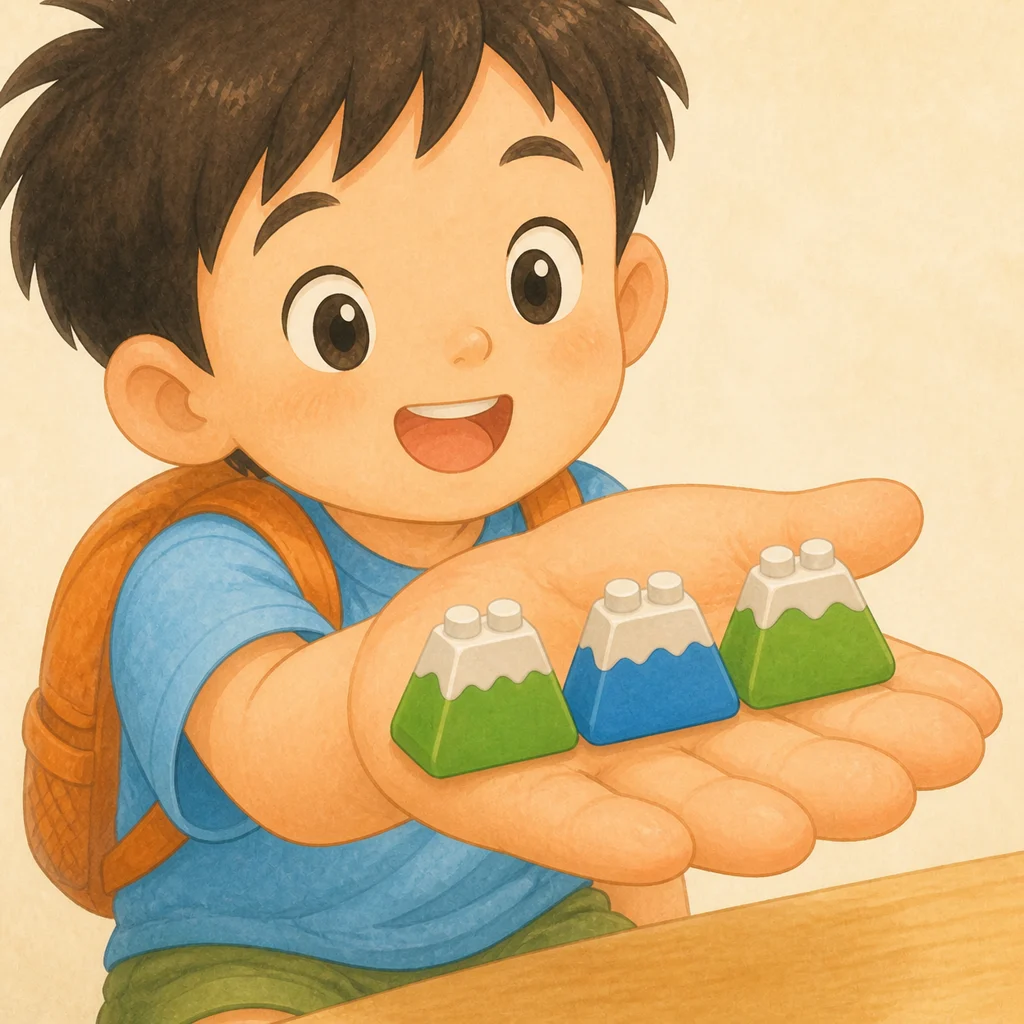
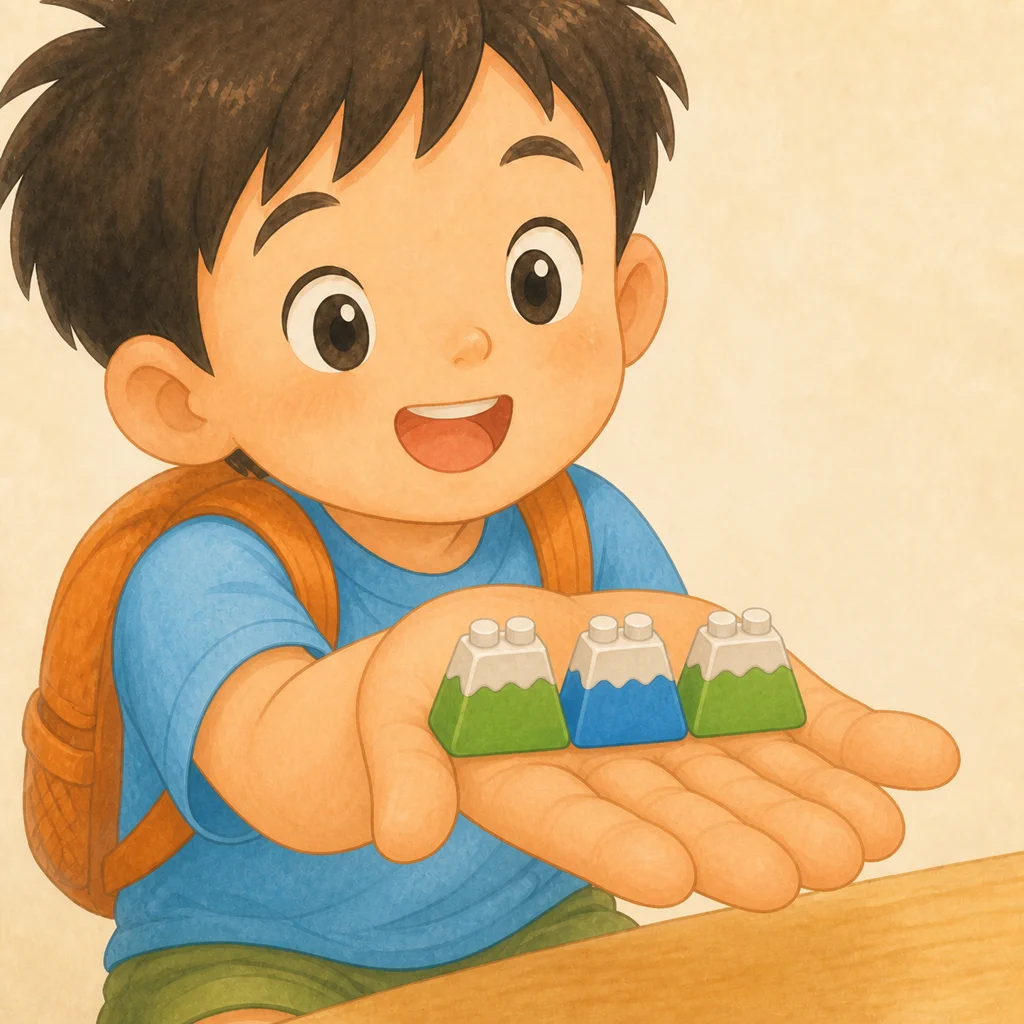
Persist planner drafts and fix L012 hand image

diff --git a/public/tools/lesson-planner.html b/public/tools/lesson-planner.html
@@ -458,6 +458,7 @@
           <button class="btn danger" id="submitBtn" type="button">送出給 Codex</button>
           <button class="btn" id="copyBtn" type="button">複製 JSON</button>
           <button class="btn secondary" id="downloadBtn" type="button">下載 JSON</button>
+          <button class="btn secondary" id="clearDraftBtn" type="button">清除本課草稿</button>
         </div>
         <div class="status" id="statusLine"></div>
       </section>
@@ -468,6 +469,7 @@
         data: null,
         recommendations: [],
         selectedChoiceId: "",
+        storageKey: "",
         selectedIndexes: new Map(),
         imageNotesBySentence: new Map(),
         customRowsByChoice: new Map(),
@@ -755,6 +757,109 @@
         });
       }
 
+      function plannerStorageKey(model) {
+        return `character-recognition-dojo:lesson-planner:v1:${model.lessonId}`;
+      }
+
+      function mapToObject(map, valueMapper = (value) => value) {
+        return Object.fromEntries([...map.entries()].map(([key, value]) => [key, valueMapper(value)]));
+      }
+
+      function restoreMapOfArrays(saved, allowedChoiceIds) {
+        return new Map(
+          Object.entries(saved || {})
+            .filter(([choiceId]) => allowedChoiceIds.has(choiceId))
+            .map(([choiceId, indexes]) => [choiceId, new Set((indexes || []).map(Number).filter(Number.isInteger))]),
+        );
+      }
+
+      function restoreMapOfStrings(saved) {
+        return new Map(Object.entries(saved || {}).map(([key, value]) => [key, String(value || "")]));
+      }
+
+      function cleanSavedRows(rows) {
+        return (rows || [])
+          .filter((row) => row && String(row.text || "").trim())
+          .map((row) => ({
+            text: String(row.text || ""),
+            spokenText: String(row.spokenText || ""),
+            focusChar: String(row.focusChar || ""),
+            imageNotes: String(row.imageNotes || ""),
+            editing: Boolean(row.editing),
+          }));
+      }
+
+      function restoreMapOfRows(saved, allowedChoiceIds) {
+        return new Map(
+          Object.entries(saved || {})
+            .filter(([choiceId]) => allowedChoiceIds.has(choiceId))
+            .map(([choiceId, rows]) => [choiceId, cleanSavedRows(rows)]),
+        );
+      }
+
+      function restoreMapOfDrafts(saved, allowedChoiceIds) {
+        return new Map(
+          Object.entries(saved || {})
+            .filter(([choiceId]) => allowedChoiceIds.has(choiceId))
+            .map(([choiceId, draft]) => [
+              choiceId,
+              {
+                text: String(draft?.text || ""),
+                spokenText: String(draft?.spokenText || ""),
+                focusChar: String(draft?.focusChar || ""),
+                imageNotes: String(draft?.imageNotes || ""),
+              },
+            ]),
+        );
+      }
+
+      function loadPlannerMemory(model) {
+        state.storageKey = plannerStorageKey(model);
+        const allowedChoiceIds = new Set(model.recommendations.map((choice) => choice.choiceId));
+        try {
+          const saved = JSON.parse(localStorage.getItem(state.storageKey) || "null");
+          if (!saved) return false;
+          state.selectedChoiceId = allowedChoiceIds.has(saved.selectedChoiceId) ? saved.selectedChoiceId : "";
+          state.selectedIndexes = restoreMapOfArrays(saved.selectedIndexes, allowedChoiceIds);
+          state.imageNotesBySentence = restoreMapOfStrings(saved.imageNotesBySentence);
+          state.customRowsByChoice = restoreMapOfRows(saved.customRowsByChoice, allowedChoiceIds);
+          state.customDraftsByChoice = restoreMapOfDrafts(saved.customDraftsByChoice, allowedChoiceIds);
+          return true;
+        } catch {
+          return false;
+        }
+      }
+
+      function savePlannerMemory(model = currentModel()) {
+        if (!state.storageKey) state.storageKey = plannerStorageKey(model);
+        const payload = {
+          savedAt: new Date().toISOString(),
+          lessonId: model.lessonId,
+          selectedChoiceId: state.selectedChoiceId,
+          selectedIndexes: mapToObject(state.selectedIndexes, (set) => [...set]),
+          imageNotesBySentence: mapToObject(state.imageNotesBySentence),
+          customRowsByChoice: mapToObject(state.customRowsByChoice),
+          customDraftsByChoice: mapToObject(state.customDraftsByChoice),
+        };
+        try {
+          localStorage.setItem(state.storageKey, JSON.stringify(payload));
+        } catch {
+          $("statusLine").textContent = "瀏覽器沒有允許儲存草稿，離開頁面前請先複製 JSON。";
+        }
+      }
+
+      function clearPlannerMemory(model = currentModel()) {
+        const key = state.storageKey || plannerStorageKey(model);
+        localStorage.removeItem(key);
+        state.selectedChoiceId = "";
+        state.selectedIndexes = new Map();
+        state.imageNotesBySentence = new Map();
+        state.customRowsByChoice = new Map();
+        state.customDraftsByChoice = new Map();
+        state.feedbackByChoice = new Map();
+        state.storageKey = key;
+      }
+
       function escapeAttr(value) {
         return String(value || "")
           .replaceAll("&", "&amp;")
@@ -849,7 +954,9 @@
         if (!response.ok) throw new Error(`讀取 planner-data.json 失敗：${response.status}`);
         state.data = await response.json();
         const model = recommend(state.data);
+        const restored = loadPlannerMemory(model);
         render(model);
+        if (restored) $("statusLine").textContent = "已恢復上次留下的本課草稿。";
       }
 
       function currentModel() {
@@ -865,6 +972,7 @@
             state.selectedIndexes.set(state.selectedChoiceId, new Set([0, 1, 2, 3].filter((index) => choice?.sentenceCandidates[index])));
           }
           render(currentModel());
+          savePlannerMemory();
           $("statusLine").textContent = "已選這個字，候選卡已移到上方。";
           scrollSelectedChoiceIntoView();
           return;
@@ -883,6 +991,7 @@
           state.selectedChoiceId = choiceId;
           if (!text) {
             setChoiceFeedback(choiceId, "請先輸入句子。");
+            savePlannerMemory(model);
             render(model);
             return;
           }
@@ -890,11 +999,13 @@
           const missingChars = forbiddenChars({ text }, allowedChars);
           if (missingChars.length > 0) {
             setChoiceFeedback(choiceId, `這句有未學字：${missingChars.join("、")}。`);
+            savePlannerMemory(model);
             render(model);
             return;
           }
           if (focusChar && !hanChars(text).includes(focusChar)) {
             setChoiceFeedback(choiceId, `focus「${focusChar}」沒有出現在句子裡。`);
+            savePlannerMemory(model);
             render(model);
             return;
           }
@@ -903,6 +1014,7 @@
           state.customRowsByChoice.set(choiceId, rows);
           state.customDraftsByChoice.set(choiceId, { text: "", spokenText: "", focusChar: "", imageNotes: "" });
           setChoiceFeedback(choiceId, `已新增：「${text}」。`);
+          savePlannerMemory();
           render(currentModel());
           return;
         }
@@ -915,6 +1027,7 @@
           if (rows[index]) rows[index] = { ...rows[index], editing: !rows[index].editing };
           state.customRowsByChoice.set(choiceId, rows);
           state.selectedChoiceId = choiceId;
+          savePlannerMemory();
           render(currentModel());
           return;
         }
@@ -928,6 +1041,7 @@
           state.customRowsByChoice.set(choiceId, rows);
           state.selectedChoiceId = choiceId;
           setChoiceFeedback(choiceId, removed?.text ? `已移除：「${removed.text}」。` : "已移除一句。");
+          savePlannerMemory();
           render(currentModel());
           return;
         }
@@ -984,6 +1098,13 @@
           return;
         }
 
+        if (event.target.id === "clearDraftBtn") {
+          clearPlannerMemory();
+          render(currentModel());
+          $("statusLine").textContent = "已清除本課保留的草稿。";
+          return;
+        }
+
         if (event.target.id === "refreshBtn") {
           await loadData();
           $("statusLine").textContent = "已重新讀取資料。";
@@ -999,6 +1120,7 @@
           else set.delete(index);
           state.selectedIndexes.set(choiceId, set);
           state.selectedChoiceId = choiceId;
+          savePlannerMemory();
           updateOutput(currentModel());
         }
       });
@@ -1013,6 +1135,7 @@
           rows[index][field] = event.target.value;
           state.customRowsByChoice.set(choiceId, rows);
           state.selectedChoiceId = choiceId;
+          savePlannerMemory();
           updateOutput(currentModel());
         }
         if (event.target.matches("[data-draft-choice][data-field]")) {
@@ -1023,6 +1146,7 @@
           state.customDraftsByChoice.set(choiceId, draft);
           state.selectedChoiceId = choiceId;
           setChoiceFeedback(choiceId, "");
+          savePlannerMemory();
           updateOutput(currentModel());
         }
         if (event.target.matches("[data-image-note-choice][data-index]")) {
@@ -1030,6 +1154,7 @@
           const index = Number(event.target.dataset.index);
           state.imageNotesBySentence.set(sentenceKey(choiceId, index), event.target.value);
           state.selectedChoiceId = choiceId;
+          savePlannerMemory();
           updateOutput(currentModel());
         }
       });
